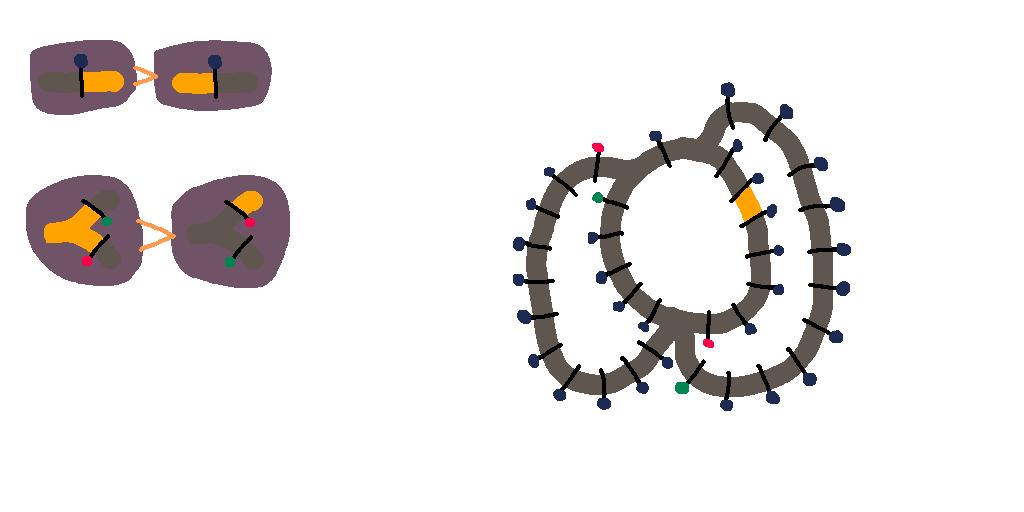
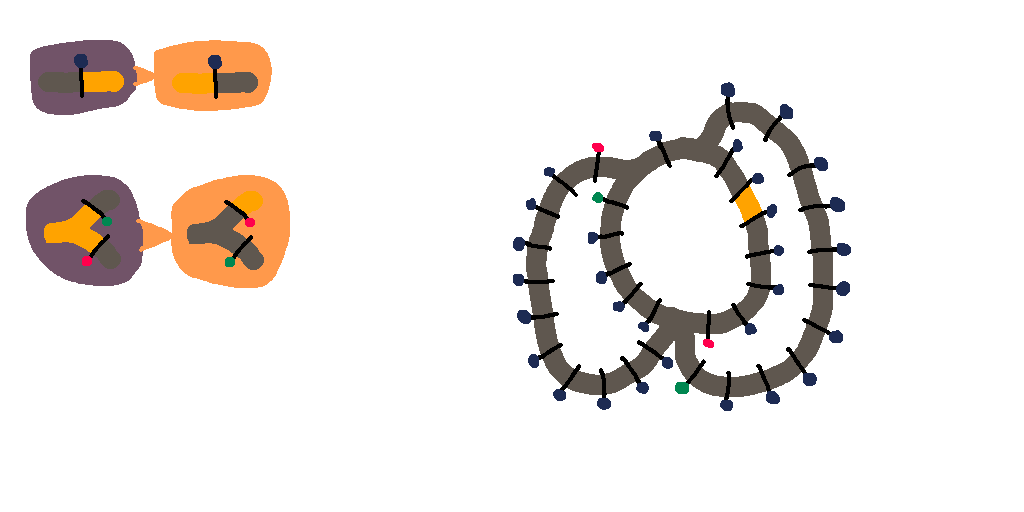
Using rule before and after color instead of arrow
Using a topological arrow is hard to understand.

Changed region(s): [[0.125, 0.3438, 0.2812, 0.5625], [0.125, 0.0625, 0.2812, 0.2188]]

diff --git a/src/topology.rs b/src/topology.rs
@@ -703,7 +703,7 @@ pub mod test {
         // }
 
         let expected_edges = rgb_edges_from([
-            (Rgba8::TRANSPARENT, Material::VOID_COLOR),
+            (Rgba8::TRANSPARENT, Material::RULE_BEFORE_COLOR),
             (Rgba8::RED, Rgba8::TRANSPARENT),
         ]);
         assert_eq!(edges, expected_edges);
@@ -713,7 +713,7 @@ pub mod test {
     fn seam_graph_2a() {
         let rgb_edges = load_rgb_seam_graph("2a.png");
         let expected_rgb_edges = rgb_edges_from([
-            (Rgba8::TRANSPARENT, Material::VOID_COLOR),
+            (Rgba8::TRANSPARENT, Material::RULE_BEFORE_COLOR),
             (Rgba8::RED, Rgba8::BLUE),
             (Rgba8::RED, Rgba8::TRANSPARENT),
             (Rgba8::BLUE, Rgba8::TRANSPARENT),
@@ -725,7 +725,7 @@ pub mod test {
     fn seam_graph_2b() {
         let rgb_edges = load_rgb_seam_graph("2b.png");
         let expected_rgb_edges = rgb_edges_from([
-            (Rgba8::TRANSPARENT, Material::VOID_COLOR),
+            (Rgba8::TRANSPARENT, Material::RULE_BEFORE_COLOR),
             (Rgba8::RED, Rgba8::BLUE),
             (Rgba8::RED, Rgba8::TRANSPARENT),
         ]);
@@ -742,7 +742,7 @@ pub mod test {
     fn seam_graph_3a() {
         let rgb_edges = load_rgb_seam_graph("3a.png");
         let expected_rgb_edges = rgb_edges_from([
-            (Rgba8::TRANSPARENT, Material::VOID_COLOR),
+            (Rgba8::TRANSPARENT, Material::RULE_BEFORE_COLOR),
             (Rgba8::RED, Rgba8::GREEN),
             (Rgba8::RED, Rgba8::BLUE),
             (Rgba8::RED, Rgba8::TRANSPARENT),
@@ -754,7 +754,7 @@ pub mod test {
     fn seam_graph_3b() {
         let rgb_edges = load_rgb_seam_graph("3b.png");
         let expected_rgb_edges = rgb_edges_from([
-            (Rgba8::RED, Material::VOID_COLOR),
+            (Rgba8::RED, Material::RULE_BEFORE_COLOR),
             (Rgba8::RED, Rgba8::GREEN),
             (Rgba8::GREEN, Rgba8::BLUE),
         ]);
@@ -765,7 +765,7 @@ pub mod test {
     fn seam_graph_3c() {
         let rgb_edges = load_rgb_seam_graph("3c.png");
         let expected_rgb_edges = rgb_edges_from([
-            (Rgba8::TRANSPARENT, Material::VOID_COLOR),
+            (Rgba8::TRANSPARENT, Material::RULE_BEFORE_COLOR),
             (Rgba8::RED, Rgba8::YELLOW),
             (Rgba8::RED, Rgba8::BLUE),
             (Rgba8::YELLOW, Rgba8::BLUE),
@@ -778,7 +778,7 @@ pub mod test {
     fn seam_graph_4a() {
         let rgb_edges = load_rgb_seam_graph("4a.png");
         let expected_rgb_edges = rgb_edges_from([
-            (Rgba8::TRANSPARENT, Material::VOID_COLOR),
+            (Rgba8::TRANSPARENT, Material::RULE_BEFORE_COLOR),
             (Rgba8::RED, Rgba8::BLUE),
             (Rgba8::BLUE, Rgba8::GREEN),
             (Rgba8::GREEN, Rgba8::CYAN),

diff --git a/src/material.rs b/src/material.rs
@@ -23,17 +23,17 @@ impl Material {
     pub const REGION_EQ_MASK: u8 = 0b1111_1110;
 
     /// #360c29
-    pub const VOID_COLOR: Rgba8 = Rgba8::new(0x36, 0x0C, 0x29, Self::RULE_ALPHA);
+    pub const RULE_BEFORE_COLOR: Rgba8 = Rgba8::new(0x36, 0x0C, 0x29, Self::RULE_ALPHA);
     /// #FF6E00
-    pub const RULE_ARROW_COLOR: Rgba8 = Rgba8::new(0xFF, 0x6E, 0x00, Self::RULE_ALPHA);
+    pub const RULE_AFTER_COLOR: Rgba8 = Rgba8::new(0xFF, 0x6E, 0x00, Self::RULE_ALPHA);
     /// #0C3619
     pub const WILDCARD_COLOR: Rgba8 = Rgba8::new(0x0C, 0x36, 0x19, Self::RULE_ALPHA);
 
     pub const UNDEF_COLOR: Rgba8 = Rgba8::new(0xFF, 0xFF, 0xFF, 0x00);
 
-    pub const VOID: Self = Self::from_rgba(Self::VOID_COLOR);
-    pub const RULE_FRAME: Self = Self::VOID;
-    pub const RULE_ARROW: Self = Self::from_rgba(Self::RULE_ARROW_COLOR);
+    pub const VOID: Self = Self::from_rgba(Self::RULE_BEFORE_COLOR);
+    pub const RULE_BEFORE: Self = Self::VOID;
+    pub const RULE_AFTER: Self = Self::from_rgba(Self::RULE_AFTER_COLOR);
     pub const WILDCARD: Self = Self::from_rgba(Self::WILDCARD_COLOR);
     pub const TRANSPARENT: Self = Self::from_rgba(Rgba8::TRANSPARENT);
     pub const BLACK: Self = Self::from_rgba(Rgba8::BLACK);

diff --git a/src/palettes/mod.rs b/src/palettes/mod.rs
@@ -56,18 +56,18 @@ impl Palette {
 
 #[derive(Debug, Clone, Copy, PartialEq, Eq, PartialOrd, Ord)]
 pub enum SystemPalette {
-    Rule,
-    Arrow,
+    RuleBefore,
+    RuleAfter,
     Wildcard,
 }
 
 impl SystemPalette {
-    pub const ALL: [Self; 3] = [Self::Rule, Self::Arrow, Self::Wildcard];
+    pub const ALL: [Self; 3] = [Self::RuleBefore, Self::RuleAfter, Self::Wildcard];
 
     pub const fn rgba(self) -> Rgba8 {
         match self {
-            Self::Rule => Material::RULE_FRAME.to_rgba(),
-            Self::Arrow => Material::RULE_ARROW.to_rgba(),
+            Self::RuleBefore => Material::RULE_BEFORE.to_rgba(),
+            Self::RuleAfter => Material::RULE_AFTER.to_rgba(),
             Self::Wildcard => Material::WILDCARD.to_rgba(),
         }
     }
@@ -80,9 +80,9 @@ impl ReflectEnum for SystemPalette {
 
     fn as_str(self) -> &'static str {
         match self {
-            Self::Rule => "Rule",
-            Self::Arrow => "Arrow",
-            Self::Wildcard => "Hole",
+            Self::RuleBefore => "Rule Before",
+            Self::RuleAfter => "Rule After",
+            Self::Wildcard => "Wildcard",
         }
     }
 }
